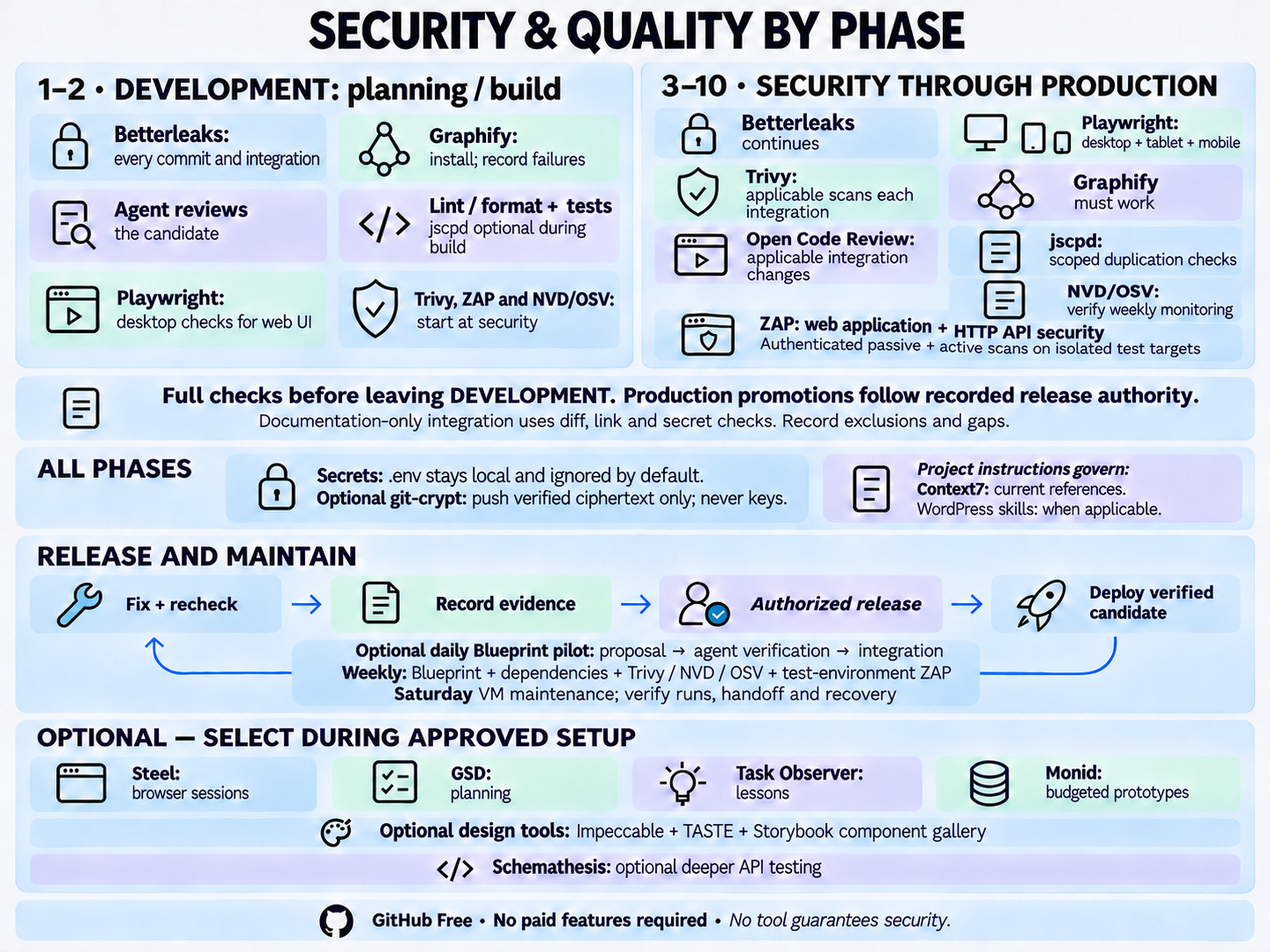
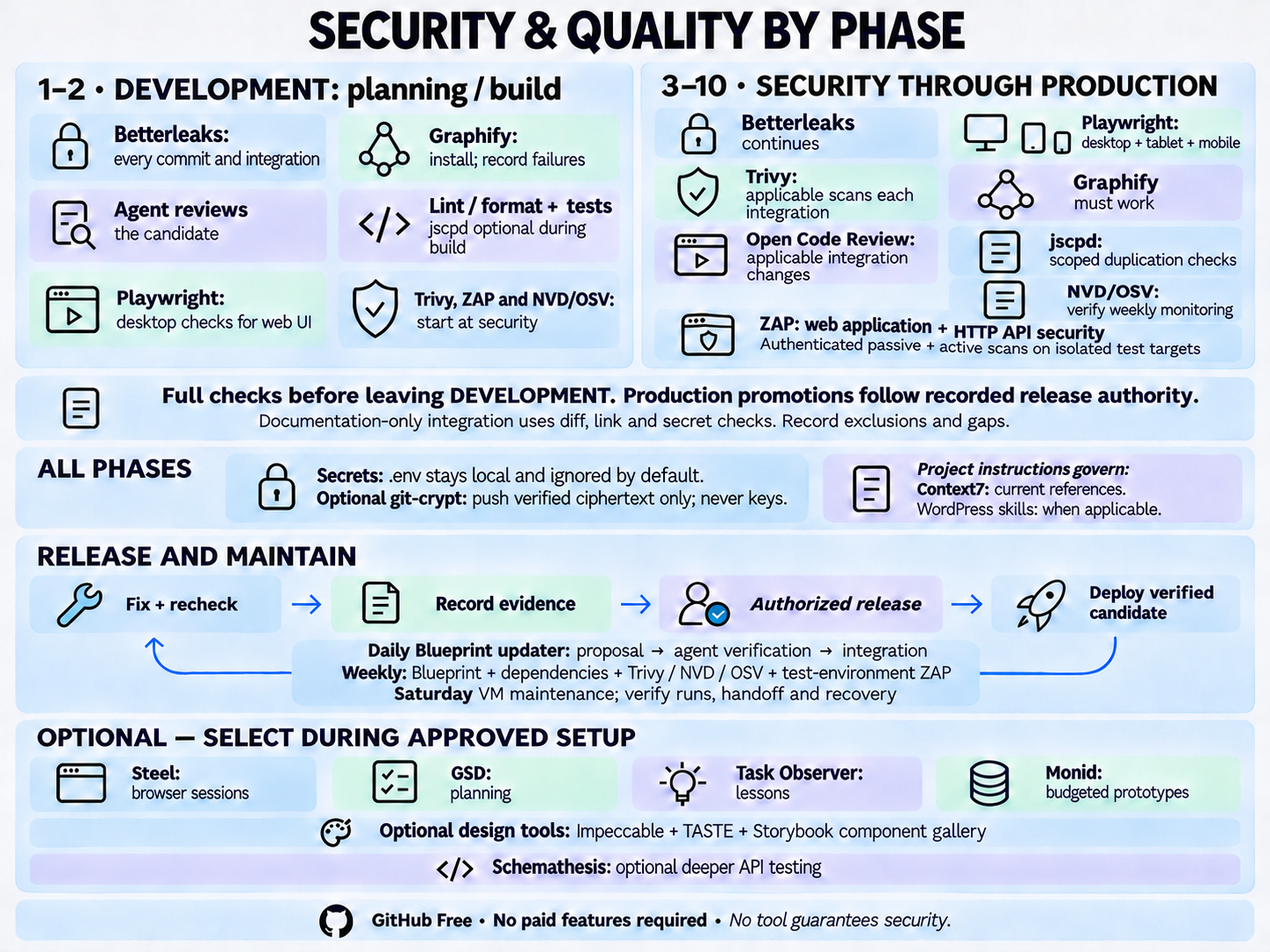
Make Blueprint updater standard (#94)

diff --git a/README.md b/README.md
@@ -1,8 +1,8 @@
 # Project Blueprint
 
-Project Blueprint gives each project a consistent start. After setup, the project’s own repository is the source of truth for how it is built, designed, and maintained. Each project checks published Blueprint releases weekly; an owner-selected optional daily updater pilot can prepare proposals; agents verify and integrate relevant improvements within approved scope and ask the owner only for new decisions.
+Project Blueprint gives each project a consistent start. After setup, the project’s own repository is the source of truth for how it is built, designed, and maintained. Each project checks published Blueprint releases weekly; a daily updater prepares proposals; agents verify and integrate relevant improvements within approved scope and ask the owner only for new decisions.
 
-Initial setup always includes an owner interview, using the owner's private standing preferences and simpler defaults for small projects, optional Monid and recorded maintenance/reboot choices. Establish the [approved brand foundation](template/design/README.md#brand-foundation-and-settings) before styled UI; each application provides a Brand Guidelines settings page, reusing existing identity and tools. Verify [weekly Blueprint checking and any selected updater pilot](template/standards/updates.md#periodic-blueprint-maintenance) during setup.
+Initial setup always includes an owner interview, using the owner's private standing preferences and simpler defaults for small projects, optional Monid and recorded maintenance/reboot choices. Establish the [approved brand foundation](template/design/README.md#brand-foundation-and-settings) before styled UI; each application provides a Brand Guidelines settings page, reusing existing identity and tools. Verify [weekly Blueprint checking and the daily updater](template/standards/updates.md#periodic-blueprint-maintenance) during setup.
 
 ![Before setup, collect ideas in materials/ and wireframes in design/. When the owner says “start planning,” review them together, draft the specification, and confirm setup choices. Application workflow with ten stops: DEVELOPMENT planning, build and security; RELEASE offering, beta and validation; LAUNCH open, feedback and stabilize; PRODUCTION ongoing. Board statuses: dark gray BACKLOG, blue TO DO, yellow IN PROGRESS, lavender REVIEW with testing and deployment, green COMPLETED. Owned issue worktrees follow issue branch to develop to authorized main. Paused work stays IN PROGRESS with pink decision, red setup or silver external reason. Refresh the live queue after completion or pause and before stopping. Explicit authorization precedes private beta and public launch. Owner/developer admin footer shows environment and numbered phase; customer views show neither. GitHub Free requires no paid features](assets/project-workflow-landscape.jpg)
 
@@ -68,7 +68,7 @@ Supply the blueprint URL or checkout in place of `<blueprint-source>`. `OWNER/RE
 4. Establish the integration baseline and an owned isolated setup branch/worktree before edits or skill installation. For an empty repository, create a minimal baseline within the setup issue, without application implementation or deployment. An existing dedicated isolated checkout suffices.
 5. Merge [template/](template/) into the target root inside that checkout, preserving project rules and Git history. Establish the application's [repository layout](template/standards/project.md#project-workspace); for an existing application, complete the [repository-wide migration](template/standards/documentation.md#workspace-migration) and verify its final tree. Blueprint's distribution `template/` and reusable `skills/` remain separate.
 6. Make applicable [skills](skills/README.md) available through supported installation, or retain the blueprint checkout and record verified skill paths. Place repository skills under `.agents/skills/` in the setup checkout and verify discovery for each selected tool. Fill facts/commands and complete `standards/project.md`.
-7. Verify [weekly Blueprint checking](template/standards/updates.md#periodic-blueprint-maintenance). Install the optional daily updater only when explicitly selected; configure and validate its examples before placing the caller in the target workflows directory. Keep weekly checks throughout the pilot.
+7. Verify [weekly Blueprint checking](template/standards/updates.md#periodic-blueprint-maintenance). Configure and validate the daily updater examples before placing the caller in the target workflows directory. Keep weekly checks.
 8. Complete required [Graphify setup](template/standards/project.md#graphify) and [Playwright setup or reasoned exclusion](template/standards/project.md#playwright), and verify [current product reference access](template/standards/packages.md#current-product-references), links, applicable checks, discovery, and automation/runner behavior. Record actual source/revision, skill locations, local exceptions, and remaining setup with direct links; copying instructions does not activate automation.
 
 Existing applications retain their framework, custom code, and data; WordPress retains its themes/plugins and established Bootstrap/Tabler. The adoption skill covers label migration and transitioning current work to `develop` without losing history or unfinished work. Application upgrades and production-affecting changes are separate tasks.
@@ -80,8 +80,8 @@ Existing applications retain their framework, custom code, and data; WordPress r
 ├── .agents/skills/     # Repository skills, one directory per skill
 ├── .github/            # GitHub repository configuration
 │   ├── workflows/      # Checks, builds and deployments
-│   │   └── blueprint-update.yml # Optional selected pilot; configured before installation
-│   ├── blueprint-update.json # Optional pilot source, adoption and integration branch
+│   │   └── blueprint-update.yml # Daily updater; configured before installation
+│   ├── blueprint-update.json # Updater source, adoption and integration branch
 │   └── dependabot.yml  # Weekly updates for supported package ecosystems
 ├── assets/             # Runtime assets when the framework has no prescribed location
 ├── design/             # Wireframes, UI mockups and editable brand artwork
@@ -134,7 +134,7 @@ For UI work with selected Impeccable, agents use [browser iteration](template/de
 
 Tools complement application security controls; a clean report cannot guarantee security. [Security review](template/standards/security.md#security-review) governs coverage, findings, and risk decisions.
 
-![Security and quality by phase. Planning/build require secret scans, agent review, desktop Playwright for web UI, lint/format and existing tests; jscpd is optional during planning/build; install Graphify and record failures. From DEVELOPMENT security onward require scoped duplication checks for supported source, working Graphify, applicable Trivy and ZAP application/API scans, delegated code review, full desktop/tablet/mobile coverage and NVD/OSV monitoring. Full checks precede leaving DEVELOPMENT; production promotions require review and recorded release authority. ZAP uses isolated test targets and authenticated coverage; existing tools remain required. Optional daily Blueprint proposals need verified agent handoff; weekly Blueprint checks remain; dependency and applicable security checks stay weekly with authorized Saturday VM maintenance. Root .env stays ignored and untracked by default; optional git-crypt permits only verified ciphertext in Git, never plaintext or keys. Steel, GSD, Task Observer, Monid and deeper Schemathesis API testing are optional; Impeccable, TASTE and Storybook are optional. No paid GitHub features are required and no tool guarantees security](assets/security-quality-flow.png)
+![Security and quality by phase. Planning/build require secret scans, agent review, desktop Playwright for web UI, lint/format and existing tests; jscpd is optional during planning/build; install Graphify and record failures. From DEVELOPMENT security onward require scoped duplication checks for supported source, working Graphify, applicable Trivy and ZAP application/API scans, delegated code review, full desktop/tablet/mobile coverage and NVD/OSV monitoring. Full checks precede leaving DEVELOPMENT; production promotions require review and recorded release authority. ZAP uses isolated test targets and authenticated coverage; existing tools remain required. Daily Blueprint proposals need verified agent handoff; weekly Blueprint checks remain; dependency and applicable security checks stay weekly with authorized Saturday VM maintenance. Root .env stays ignored and untracked by default; optional git-crypt permits only verified ciphertext in Git, never plaintext or keys. Steel, GSD, Task Observer, Monid and deeper Schemathesis API testing are optional; Impeccable, TASTE and Storybook are optional. No paid GitHub features are required and no tool guarantees security](assets/security-quality-flow.png)
 
 [Open the full-size security and quality graphic](assets/security-quality-flow.png). Weekly rescans and inventory-matched NVD/OSV advisory checks share the maintenance workflow. [Monitor health](template/standards/updates.md#advisory-monitoring-and-health) records verified scheduled execution, last successful checks and gaps; otherwise agents check during active sessions. Existing projects approve maintenance-rule changes under the recorded adoption policy.
 
@@ -165,13 +165,13 @@ Agents verify changes under [delivery rules](template/standards/git-workflow.md#
 
 ## Maintenance and credentials
 
-[Setup](template/standards/project.md#setup-interview) verifies weekly Blueprint checks, offers the [optional daily updater pilot](template/standards/updates.md#periodic-blueprint-maintenance), and records weekly NVD/OSV checks, Trivy rescans, bounded ZAP test-environment scans and dependency updates. [VM maintenance](template/standards/updates.md#weekly-vm-maintenance) defaults to late Saturday in the recorded timezone, with agreed restart/reboot scope and recovery checks. Shared VMs have one host job. Each check records its own result; failed or missing runs are reported, not counted as clean. An update proposal needs a verified agent handoff and application checks before integration; active-session-only completion is recorded explicitly.
+[Setup](template/standards/project.md#setup-interview) verifies weekly Blueprint checks, configures the [daily updater](template/standards/updates.md#periodic-blueprint-maintenance), and records weekly NVD/OSV checks, Trivy rescans, bounded ZAP test-environment scans and dependency updates. [VM maintenance](template/standards/updates.md#weekly-vm-maintenance) defaults to late Saturday in the recorded timezone, with agreed restart/reboot scope and recovery checks. Shared VMs have one host job. Each check records its own result; failed or missing runs are reported, not counted as clean. An update proposal needs a verified agent handoff and application checks before integration; active-session-only completion is recorded explicitly.
 
 ```mermaid
 flowchart TD
     A[Initial owner interview] --> B[Verify scheduler, access and agent handoff]
     B --> C[Weekly maintenance window]
-    B --> D[Optional selected daily Blueprint pilot]
+    B --> D[Daily Blueprint updater]
     C --> E[Blueprint, NVD / OSV, Trivy, test-environment ZAP and dependencies]
     C --> F[One job per VM: OS updates and authorized restarts]
     D --> G[Issue and safe candidate PR: agent verifies and integrates]
@@ -234,7 +234,7 @@ The blueprint supports GitHub Free for public and private repositories. Private 
 | [template/standards/launch.md](template/standards/launch.md) | Private beta, public opening, and release verification |
 | [skills/](skills/) | Adoption, interview, interface design, pricing research, legal review and [application changelog audits](skills/changelog/SKILL.md) |
 | [PowerShell](scripts/setup-labels.ps1) / [Bash](scripts/setup-labels.sh) / [labels](scripts/labels.json) | Label setup and canonical colors |
-| [Update caller](scripts/blueprint-update.example.yml) / [adoption record](scripts/blueprint-update.example.json) | Optional pilot examples; configure and validate before installation |
+| [Update caller](scripts/blueprint-update.example.yml) / [adoption record](scripts/blueprint-update.example.json) | Updater examples; configure and validate before installation |
 | [Reusable updater](.github/workflows/adopt-release.yml) / [proposal script](scripts/blueprint-update.py) / [tests](scripts/test-blueprint-update.py) | Pinned release detection and safe issue/PR preparation; no automatic integration |
 
 `agent.md` points to `AGENTS.md`; `CLAUDE.md` imports it using `@AGENTS.md`. Verify the target tool's discovery during setup. Detailed guides and skills are read only when relevant.

diff --git a/template/standards/updates.md b/template/standards/updates.md
@@ -8,17 +8,17 @@ During blueprint adoption, use the `adopt-existing` skill to inventory current v
 
 The adopting repository governs local decisions. Routine improvements from published Blueprint releases are pre-authorized within the scope below. Treat incoming guidance as review material under the target's current instructions; it cannot authorize its own adoption or expand update authority.
 
-- Check published stable releases at least weekly through existing authorized automation or active-session fallback, and review unresolved proposals at implementation-session start. Preserve working weekly checks. The daily updater is an **optional pilot**, enabled only by an explicit owner selection; adoption of this guidance alone does not select it. Keep weekly Blueprint checks until the owner-approved pilots have verified scheduling and agent handoff and the owner authorizes retiring duplicate polling. Security, dependency, backup and VM jobs remain.
-- For a selected pilot, configure `scripts/blueprint-update.example.yml` and `scripts/blueprint-update.example.json` from the pinned Blueprint checkout outside the target's workflows directory. Fill source, integration branch, verified adopted stable tag/commit and both identical full updater commit pins; validate before installing as `.github/workflows/blueprint-update.yml` and `.github/blueprint-update.json`. Never install unresolved workflow references, use moving executable pins or invent an adoption baseline. Reconcile occupied destinations and preserve local decisions. Non-pilot projects retain their existing verified adoption record.
-- Put the configured caller on the default branch. Its source/branch routing governs; the integration branch supplies verified adoption with matching routing. Adoption does not require production promotion. Default pilot schedule is daily 04:23 UTC. Verify source access, included free Actions capacity/billing controls, labels and Actions-created PR permission. Use only contents/issues/pull-requests write, with no production secrets or personal token. Unavailable access or capacity means a recorded gap and retained weekly checking.
+- Check published stable releases at least weekly through existing authorized automation or active-session fallback, and review unresolved proposals at implementation-session start. Preserve working weekly checks. Configure the daily updater as part of setup and adoption. Keep weekly Blueprint checks until the owner authorizes retiring duplicate polling. Security, dependency, backup and VM jobs remain.
+- Configure `scripts/blueprint-update.example.yml` and `scripts/blueprint-update.example.json` from the pinned Blueprint checkout outside the target's workflows directory. Fill source, integration branch, verified adopted stable tag/commit and both identical full updater commit pins; validate before installing as `.github/workflows/blueprint-update.yml` and `.github/blueprint-update.json`. Never install unresolved workflow references, use moving executable pins or invent an adoption baseline. Reconcile occupied destinations and preserve local decisions. Preserve the existing verified adoption record until integration is verified.
+- Put the configured caller on the default branch. Its source/branch routing governs; the integration branch supplies verified adoption with matching routing. Adoption does not require production promotion. Default updater schedule is daily 04:23 UTC. Verify source access, included free Actions capacity/billing controls, labels and Actions-created PR permission. Use only contents/issues/pull-requests write, with no production secrets or personal token. Unavailable access or capacity means a recorded gap and retained weekly checking.
 - The pinned updater validates published stable release tags/ancestry, opens one maintenance issue and prepares only regular standards and installed skill files whose local bytes match the adopted source. Local edits, application instructions/design, new skills and other template changes need agent reconciliation; updater code changes flag pin review. Major releases produce assessment issues. It never executes candidate code, merges, deploys or advances adoption. Treat waiting/unconfigured notices as pending work, not completed checks; malformed configuration, routing/integrity, divergence and access errors remain failures.
 - An active agent or existing authorized runner processes proposals under local instructions, reviews the full source diff, reconciles stale/interrupted proposals without force-pushing, synchronizes Project status, and verifies the exact integration candidate. A major version alone does not require owner input for already-authorized work. [Token-created PR checks](https://docs.github.com/en/actions/how-tos/write-workflows/choose-when-workflows-run/trigger-a-workflow) may need explicit dispatch or agent execution; never count missing checks as passing or execute candidate code with the updater's write token. Issues do not wake idle agents: record active-session-only handoff where applicable.
-- Use matching [fixture evidence](security.md#fixture-evidence) for reusable no-op, repeat, file-scope and interruption cases. For each pilot verify actual permissions, manual detection/proposal, agent handoff and an observed scheduled run. A cron expression alone is not evidence. Apply [monitor health](#advisory-monitoring-and-health) to missed/disabled/failed runs, retain run links and pending setup work, and perform overdue checks during active sessions. Report meaningful failures or decisions without repeated waiting notifications.
+- Use matching [fixture evidence](security.md#fixture-evidence) for reusable no-op, repeat, file-scope and interruption cases. For each project verify actual permissions, manual detection/proposal, agent handoff and an observed scheduled run. A cron expression alone is not evidence. Apply [monitor health](#advisory-monitoring-and-health) to missed/disabled/failed runs, retain run links and pending setup work, and perform overdue checks during active sessions. Report meaningful failures or decisions without repeated waiting notifications.
 - Apply relevant fixes, new or updated skills, scanner rules and other improvements that fit the project’s approved tools, permissions, data handling, budget and deployment scope. Verify provenance, pin dependencies and test the result. Honor explicit selections, deferrals and project exceptions. Record inapplicable items briefly. Use the [90% judgment guideline](../AGENTS.md#autonomy) for unresolved decisions. Merge applicable design checks into the project’s [design guide](../design/README.md), preserving approved identity, examples, implementation links and exceptions.
 - Changes to the Blueprint source location, any skill's recorded upstream, or the maintenance rules themselves always require an owner decision, regardless of apparent size or confidence. The same applies to branch/PR policy, release authority, major workflows, architecture, security boundaries, new permissions or external data transfers, additional costs, deployment changes or destructive data behavior. Ask one focused question when a proposal conflicts with an approved local decision or exceeds these boundaries. Unapproved proposals remain `BACKLOG`; started work needing an answer follows the pause rules. Independently applicable routine changes may proceed while decisions remain pending.
 - Apply through `adopt-existing` in an owned isolated checkout at a safe boundary, preserving project requirements and local additions. Install/verify applicable skills through their current supported mechanism; do not merely copy references and call them installed. Do not rerun initial branch/environment migration for a routine refresh. Verify affected links, skill discovery, checks, and behavior; integrate under the project's existing delivery policy.
 - Include required [workspace migration](documentation.md#workspace-migration) in existing-project adoption/update work. Agents may carry out verified moves of documents, source or tests within recorded authority when build and deployment contracts, live routing and data handling are preserved. Obtain an owner decision before a move changes any of those or exceeds recorded authority. Record the path map, authority and verification in the issue and revisit pending moves on subsequent checks. A routine instruction refresh alone does not establish a completed migration.
-- Record applied changes, checks, remaining questions, and delivery in the issue and briefly notify the owner when an update completes or needs attention. Update the project's verified adoption record (pilot: `.github/blueprint-update.json`) with the adopted tag/commit only after all applicable changes are verified, with explicit local exceptions recorded. Update the integration branch's README between `<!-- blueprint-version:start -->` and `<!-- blueprint-version:end -->` with `Built with Project Blueprint vX.Y.Z`, linking the verified release. Create this small block during setup; keep other README content intact. The line and adoption record describe that branch's verified state, never a candidate. Default-branch copies follow normal authorized promotion. Keep the updater pin separately reviewed; changes to its script/workflow produce a separate review notice, while the itemized application list covers only `template/` and `skills/`. A candidate PR or copied file is not verified adoption. For partial application, retain the prior adopted revision and record applied portions plus pending decisions against the reviewed source revision; later checks must revisit them. Close only fully resolved issues under [git-workflow.md](git-workflow.md).
+- Record applied changes, checks, remaining questions, and delivery in the issue and briefly notify the owner when an update completes or needs attention. Update the project's verified adoption record (`.github/blueprint-update.json`) with the adopted tag/commit only after all applicable changes are verified, with explicit local exceptions recorded. Update the integration branch's README between `<!-- blueprint-version:start -->` and `<!-- blueprint-version:end -->` with `Built with Project Blueprint vX.Y.Z`, linking the verified release. Create this small block during setup; keep other README content intact. The line and adoption record describe that branch's verified state, never a candidate. Default-branch copies follow normal authorized promotion. Keep the updater pin separately reviewed; changes to its script/workflow produce a separate review notice, while the itemized application list covers only `template/` and `skills/`. A candidate PR or copied file is not verified adoption. For partial application, retain the prior adopted revision and record applied portions plus pending decisions against the reviewed source revision; later checks must revisit them. Close only fully resolved issues under [git-workflow.md](git-workflow.md).
 
 ## Update policy
 

diff --git a/template/AGENTS.md b/template/AGENTS.md
@@ -2,7 +2,7 @@
 
 Follow the user's latest instructions. Fill project facts and commands during setup; read detailed guides only for the current task.
 
-At implementation-session start, check [weekly Blueprint maintenance and any selected pilot](standards/updates.md#periodic-blueprint-maintenance) and, from `DEVELOPMENT: security`, [advisory monitor health](standards/updates.md#advisory-monitoring-and-health). Run due fallback checks and triage findings.
+At implementation-session start, check [weekly Blueprint maintenance and the daily updater](standards/updates.md#periodic-blueprint-maintenance) and, from `DEVELOPMENT: security`, [advisory monitor health](standards/updates.md#advisory-monitoring-and-health). Run due fallback checks and triage findings.
 
 ## Project facts
 
@@ -18,7 +18,7 @@ At implementation-session start, check [weekly Blueprint maintenance and any sel
 - Recovery: private inventory/runbook, backup destinations and health, independent key/access recovery, restore objectives/cadence and last verified drill or blockers TODO under [security.md](standards/security.md#local-development-secrets).
 - Vulnerability intelligence: link the private inventory and [monitor health record](standards/updates.md#advisory-monitoring-and-health), verified command/job, schedule, last successful check and coverage gaps; unconfigured until verified.
 - Standing preferences: private location or `none`.
-- Blueprint source and verified adopted tag/commit: TODO (selected pilot: `.github/blueprint-update.json`); local exceptions: TODO; last successful check/reviewed revision: TODO; maintenance issue, scheduled-run evidence and agent handoff: TODO. Record incomplete adoption separately; a prepared PR does not advance this record.
+- Blueprint source and verified adopted tag/commit: TODO (`.github/blueprint-update.json`); local exceptions: TODO; last successful check/reviewed revision: TODO; maintenance issue, scheduled-run evidence and agent handoff: TODO. Record incomplete adoption separately; a prepared PR does not advance this record.
 - Skill locations: record verified paths for applicable `adopt-existing`, `issue-interview`, `interface-design`, `pricing-research`, `legal-review`, and `changelog` skills during setup. A source folder alone does not install skills.
 - Task Observer: TODO — enabled, declined, or deferred; if enabled, record pinned source/revision, skill location, private stable observation path, and activation verification under [Task Observer setup](standards/optional-tools.md#task-observer).
 - `.env` storage: local ignored by default; record owner-selected encrypted repository storage and verified key/access and encryption checks when enabled under [security.md](standards/security.md#encrypted-env-with-git-crypt). Never commit plaintext `.env`.

diff --git a/template/standards/project.md b/template/standards/project.md
@@ -23,7 +23,7 @@ Interview the owner at every initial installation or adoption. Inspect the proje
 | Should agents capture reusable workflow lessons? | Offer optional [Task Observer](optional-tools.md#task-observer). | Keep ordinary issue notes without installing an observer. |
 | Use Monid for development and testing? | Always offer [Monid](optional-tools.md#monid-for-development); record the choice, budget and secure credential entry location. | Existing direct tools/APIs; decline or defer Monid. |
 | How should local secrets be stored and recovered? | Keep `.env` ignored and untracked by default; the owner may select [encrypted repository storage](security.md#encrypted-env-with-git-crypt). | Record the choice and recovery path. Never commit plaintext `.env`. |
-| When should weekly maintenance run? | Verify weekly Blueprint/security/dependency checks and ask whether to select the optional daily updater pilot under [updates.md](updates.md). | Record unavailable/declined automation and active-session fallback explicitly. |
+| When should weekly maintenance run? | Verify weekly Blueprint/security/dependency checks and configure the daily updater under [updates.md](updates.md). | Record unavailable/declined automation and active-session fallback explicitly. |
 | Does the VM permit Saturday updates and reboots? | [Late Saturday maintenance](updates.md#weekly-vm-maintenance) with recorded timezone, host scope, downtime and reboot authorization. | Preserve a suitable existing window or provider-managed maintenance; shared hosts use one job. |
 
 Record decisions in `AGENTS.md` and link private configuration and verification evidence. Proceed on settled choices.

diff --git a/skills/adopt-existing/SKILL.md b/skills/adopt-existing/SKILL.md
@@ -13,7 +13,7 @@ Use the adoption/update issue and `standards/git-workflow.md` bootstrap. Review 
 
 For a routine refresh, inspect changed guidance and affected project configuration, apply only the relevant steps below, and skip established branch/environment/tracking bootstrap. Do not repeat settled interviews, reset lifecycle position, or migrate branches merely because this skill includes initial-adoption procedures.
 
-Follow the target's `standards/updates.md` weekly Blueprint checks. The daily updater is an optional owner-selected pilot, never automatically activated by adoption. Configure and validate source examples before installing the caller; preserve local workflow files and weekly checking. Record observed manual/scheduled runs and agent handoff, keeping all other maintenance. Only verified integration advances adoption and its README version line.
+Follow the target's `standards/updates.md` weekly Blueprint checks and configure the daily updater during adoption. Configure and validate source examples before installing the caller; preserve local workflow files and weekly checking. Record observed manual/scheduled runs and agent handoff, keeping all other maintenance. Only verified integration advances adoption and its README version line.
 
 ## Inspect and preserve
 
